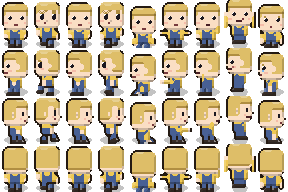
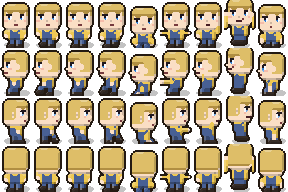
feat(art): Polish character models with Pokemon-style eyes, solid outlines, and symmetrical walk strides

diff --git a/tools/make_art.py b/tools/make_art.py
@@ -56,6 +56,9 @@ HAIR_BAND = (226, 196, 96)     # the tie on a ponytail
 LANYARD = (206, 64, 68)
 BADGE = (246, 244, 236)
 BADGE_STRIPE = (96, 150, 206)
+LASH = (32, 24, 30)
+SCLERA = (250, 250, 254)
+PUPIL = (28, 22, 32)
 
 HAIR_STYLES = ("short", "long", "curly", "spiky", "bob", "bun", "buzz",
                "ponytail")
@@ -81,6 +84,7 @@ CHARACTERS = {
         "legs": (78, 92, 130), "shoe": (74, 53, 36),
         "long_hair": False, "skirt": False,
         "hair_style": "short", "skin": "light", "pattern": "lanyard",
+        "eyes": (54, 120, 205),
     },
     # The inspector. Grey, and in a suit nobody else in the building owns,
     # because the entire job of this sprite is to be recognised across the
@@ -93,6 +97,7 @@ CHARACTERS = {
         "long_hair": False, "skirt": False,
         "hair_style": "short", "skin": "light", "pattern": "tie",
         "tie": (150, 40, 44),
+        "eyes": (80, 110, 145),
     },
     # The principal. Older (white hair, same trick as the inspector's grey)
     # and in a colour nobody else in the building wears, so a popup can
@@ -106,6 +111,7 @@ CHARACTERS = {
         "long_hair": False, "skirt": False,
         "hair_style": "short", "skin": "brown", "pattern": "tie",
         "tie": (222, 178, 70),
+        "eyes": (180, 120, 40),
     },
     # The mentor teacher, in the small room off the hallway. Another
     # colleague rather than an authority figure, so a WARM everyday palette
@@ -119,6 +125,7 @@ CHARACTERS = {
         "long_hair": True, "skirt": False,
         "hair_style": "long", "skin": "light", "pattern": "cardigan",
         "glasses": True,
+        "eyes": (130, 80, 45),
     },
     # The examiner, who invigilates the end-of-term assessment. Austere:
     # charcoal-navy suit, silver hair in a bun, glasses -- built to be told
@@ -131,17 +138,7 @@ CHARACTERS = {
         "long_hair": False, "skirt": True,
         "hair_style": "bun", "skin": "fair", "pattern": "collar",
         "glasses": True,
-    },
-    # The examiner, at the front of the room for exactly as long as the
-    # boss paper runs (scripts/world/classroom.gd refresh_examiner). A
-    # third authority figure, so a third colour nobody else wears: charcoal
-    # with silver hair, austere next to the inspector's grey suit and the
-    # principal's purple. One palette entry, same generator.
-    "examiner": {
-        "hair": (214, 214, 220), "hair_d": (168, 168, 178),
-        "shirt": (44, 48, 66), "shirt_d": (30, 32, 46),
-        "legs": (38, 40, 52), "shoe": (24, 22, 28),
-        "long_hair": True, "skirt": False,
+        "eyes": (55, 75, 115),
     },
     # Eight students. Two identical sprites across eight desks badly
     # undercuts "these are individual kids", and this is a data-table edit
@@ -156,6 +153,7 @@ CHARACTERS = {
         "long_hair": False, "skirt": False,
         "hair_style": "spiky", "skin": "tan", "pattern": "stripes",
         "sleeves": "short",
+        "eyes": (160, 95, 40),
     },
     "student_b": {
         "hair": (168, 102, 52), "hair_d": (126, 74, 36),
@@ -164,6 +162,7 @@ CHARACTERS = {
         "long_hair": True, "skirt": True,
         "hair_style": "bob", "skin": "light", "pattern": "collar",
         "sleeves": "short",
+        "eyes": (145, 80, 165),
     },
     "student_c": {
         "hair": (222, 190, 104), "hair_d": (176, 142, 66),
@@ -172,6 +171,7 @@ CHARACTERS = {
         "long_hair": False, "skirt": False,
         "hair_style": "short", "skin": "fair", "pattern": "dungarees",
         "sleeves": "short",
+        "eyes": (45, 125, 210),
     },
     "student_d": {
         "hair": (72, 52, 44), "hair_d": (48, 34, 30),
@@ -180,6 +180,7 @@ CHARACTERS = {
         "long_hair": True, "skirt": True,
         "hair_style": "long", "skin": "brown", "pattern": "plain",
         "sleeves": "long",
+        "eyes": (95, 55, 35),
     },
     "student_e": {
         "hair": (206, 108, 58), "hair_d": (158, 76, 38),
@@ -188,6 +189,7 @@ CHARACTERS = {
         "long_hair": False, "skirt": False,
         "hair_style": "curly", "skin": "light", "pattern": "stripes",
         "sleeves": "short",
+        "eyes": (45, 145, 85),
     },
     "student_f": {
         "hair": (40, 38, 48), "hair_d": (26, 24, 32),
@@ -196,6 +198,7 @@ CHARACTERS = {
         "long_hair": True, "skirt": True,
         "hair_style": "ponytail", "skin": "dark", "pattern": "plain",
         "sleeves": "short",
+        "eyes": (55, 40, 35),
     },
     "student_g": {
         "hair": (140, 104, 66), "hair_d": (100, 72, 44),
@@ -204,6 +207,7 @@ CHARACTERS = {
         "long_hair": False, "skirt": False,
         "hair_style": "buzz", "skin": "brown", "pattern": "collar",
         "sleeves": "long",
+        "eyes": (120, 80, 40),
     },
     "student_h": {
         "hair": (222, 218, 208), "hair_d": (176, 172, 166),
@@ -212,6 +216,7 @@ CHARACTERS = {
         "long_hair": True, "skirt": True,
         "hair_style": "bun", "skin": "fair", "pattern": "dungarees",
         "sleeves": "short",
+        "eyes": (45, 155, 215),
     },
 }
 
@@ -550,6 +555,8 @@ def resolve_palette(pal):
     p["legs_d"] = darker(p["legs"], 0.25)
     p["shoe_l"] = lighter(p["shoe"], 0.35)
     p["tie_l"] = lighter(p["tie"], 0.3)
+    p["eyes_l"] = lighter(p["eyes"], 0.35)
+    p["eyes_d"] = darker(p["eyes"], 0.25)
     return p
 
 
@@ -622,20 +629,34 @@ def _hair_front(im, p, dy, extras_only=False):
 
 def _face_front(im, p, dy, pose):
     eyes = p["eyes"]
-    # eyes with the highlight that makes them look alive
+    eyes_l = p.get("eyes_l", lighter(eyes, 0.35))
+    # Pokemon-style eyes: defined upper lash, white sclera, vibrant iris, specular catchlight
     for ex in (8, 20):
-        rect(im, ex, 16 + dy, ex + 3, 20 + dy, eyes)
-        rect(im, ex, 16 + dy, ex + 1, 17 + dy, (255, 255, 255))
+        # Sclera base (outer/lower white)
+        rect(im, ex, 16 + dy, ex + 3, 19 + dy, SCLERA)
+        # Upper lash line (dark, defines eye shape)
+        rect(im, ex, 15 + dy, ex + 3, 15 + dy, LASH)
+        px(im, ex - 1 if ex == 8 else ex + 4, 15 + dy, LASH)
+        # Iris & pupil: dark pupil at top, vibrant iris color below
+        rect(im, ex + 1, 16 + dy, ex + 2, 17 + dy, PUPIL)
+        rect(im, ex + 1, 18 + dy, ex + 2, 19 + dy, eyes)
+        px(im, ex + 2, 19 + dy, eyes_l)
+        # Brilliant specular catchlight (upper corner)
+        px(im, ex, 16 + dy, (255, 255, 255))
+        px(im, ex + 1, 16 + dy, (255, 255, 255))
+
     # brows
     if pose == POSE_SAD:
-        for x, y in ((8, 15), (9, 15), (10, 14), (11, 14),
-                     (20, 14), (21, 14), (22, 15), (23, 15)):
+        for x, y in ((8, 14), (9, 14), (10, 13), (11, 13),
+                     (20, 13), (21, 13), (22, 14), (23, 14)):
             px(im, x, y + dy, p["hair_d"])
     else:
-        rect(im, 8, 14 + dy, 11, 14 + dy, p["hair_d"])
-        rect(im, 20, 14 + dy, 23, 14 + dy, p["hair_d"])
+        rect(im, 8, 13 + dy, 11, 13 + dy, p["hair_d"])
+        rect(im, 20, 13 + dy, 23, 13 + dy, p["hair_d"])
+
     # nose
-    rect(im, 15, 22 + dy, 16, 22 + dy, p["skin_d"])
+    rect(im, 15, 21 + dy, 16, 21 + dy, p["skin_d"])
+
     # mouth, by mood
     if pose == POSE_SAD:
         rect(im, 15, 24 + dy, 16, 25 + dy, MOUTH)
@@ -653,17 +674,19 @@ def _face_front(im, p, dy, pose):
         px(im, 13, 24 + dy, MOUTH)
         px(im, 18, 24 + dy, MOUTH)
         rect(im, 14, 25 + dy, 17, 25 + dy, MOUTH)
+
     # cheeks
-    blend_rect(im, 5, 22 + dy, 7, 23 + dy, BLUSH)
-    blend_rect(im, 24, 22 + dy, 26, 23 + dy, BLUSH)
+    blend_rect(im, 5, 21 + dy, 7, 22 + dy, BLUSH)
+    blend_rect(im, 24, 21 + dy, 26, 22 + dy, BLUSH)
+
     if p["glasses"]:
-        blend_rect(im, 8, 16 + dy, 11, 20 + dy, LENS)
-        blend_rect(im, 20, 16 + dy, 23, 20 + dy, LENS)
-        ring(im, 7, 15 + dy, 12, 21 + dy, GLASS_FRAME, r=1)
-        ring(im, 19, 15 + dy, 24, 21 + dy, GLASS_FRAME, r=1)
-        rect(im, 13, 17 + dy, 18, 17 + dy, GLASS_FRAME)
-        rect(im, 4, 16 + dy, 6, 16 + dy, GLASS_FRAME)
-        rect(im, 25, 16 + dy, 27, 16 + dy, GLASS_FRAME)
+        blend_rect(im, 8, 15 + dy, 11, 19 + dy, LENS)
+        blend_rect(im, 20, 15 + dy, 23, 19 + dy, LENS)
+        ring(im, 7, 14 + dy, 12, 20 + dy, GLASS_FRAME, r=1)
+        ring(im, 19, 14 + dy, 24, 20 + dy, GLASS_FRAME, r=1)
+        rect(im, 13, 16 + dy, 18, 16 + dy, GLASS_FRAME)
+        rect(im, 4, 15 + dy, 6, 15 + dy, GLASS_FRAME)
+        rect(im, 25, 15 + dy, 27, 15 + dy, GLASS_FRAME)
 
 
 def _torso_pattern_front(im, p, dy, back=False):
@@ -886,14 +909,33 @@ def _profile(im, p, dy, step, seated, pose):
         rect(im, 10, 36, 19, 40, legs)
         rect(im, 8, 41, 19, 43, shoe)
     else:
-        fx = -step * 2                          # front leg strides forward
-        lift = abs(step) * 2
-        rect(im, 15 - fx, 40, 19 - fx, 45, legs)     # back leg
-        rect(im, 14 - fx, 45, 19 - fx, 47, shoe)
-        rect(im, 9 + fx, 40 - lift, 13 + fx, 45 - lift, legs)   # front leg
-        rect(im, 13 + fx, 40 - lift, 13 + fx, 45 - lift, legs_d)
-        rect(im, 7 + fx, 45 - lift, 13 + fx, 47 - lift, shoe)
-        px(im, 8 + fx, 45 - lift, shoe_l)
+        # Symmetrical stride:
+        # step == 0: neutral standing, both legs side by side
+        # step == 1: near leg strides forward (x: 7..11), far leg back (x: 16..20)
+        # step == -1: near leg strides back (x: 16..20), far leg strides forward (x: 7..11)
+        if step == 0:
+            rect(im, 14, 40, 18, 45, legs_d)
+            rect(im, 14, 45, 18, 47, shoe)
+            rect(im, 9, 40, 13, 45, legs)
+            rect(im, 13, 40, 13, 45, legs_d)
+            rect(im, 8, 45, 13, 47, shoe)
+            px(im, 9, 45, shoe_l)
+        elif step == 1:
+            # Near leg forward (lifted), Far leg back
+            rect(im, 16, 40, 20, 45, legs_d)
+            rect(im, 15, 45, 20, 47, shoe)
+            rect(im, 7, 38, 11, 43, legs)
+            rect(im, 11, 38, 11, 43, legs_d)
+            rect(im, 5, 43, 11, 45, shoe)
+            px(im, 6, 43, shoe_l)
+        else:
+            # Near leg back, Far leg forward (lifted)
+            rect(im, 7, 38, 11, 43, legs_d)
+            rect(im, 5, 43, 11, 45, shoe)
+            rect(im, 16, 40, 20, 45, legs)
+            rect(im, 20, 40, 20, 45, legs_d)
+            rect(im, 15, 45, 20, 47, shoe)
+            px(im, 16, 45, shoe_l)
 
     # hair that hangs behind the shoulder goes under the torso
     if st == "long":
@@ -994,15 +1036,21 @@ def _profile(im, p, dy, step, seated, pose):
     # ear, over the hair
     rect(im, 17, 17 + dy, 19, 21 + dy, skin)
     px(im, 18, 19 + dy, skin_d)
-    # face
-    rect(im, 7, 16 + dy, 9, 20 + dy, p["eyes"])
-    rect(im, 7, 16 + dy, 7, 17 + dy, (255, 255, 255))
+    # face / eye: looking left
+    eyes = p["eyes"]
+    eyes_l = p.get("eyes_l", lighter(eyes, 0.35))
+    rect(im, 7, 16 + dy, 10, 19 + dy, SCLERA)
+    rect(im, 6, 15 + dy, 10, 15 + dy, LASH)
+    rect(im, 7, 16 + dy, 8, 17 + dy, PUPIL)
+    rect(im, 7, 18 + dy, 8, 19 + dy, eyes)
+    px(im, 8, 19 + dy, eyes_l)
+    px(im, 7, 16 + dy, (255, 255, 255))
     if pose == POSE_SAD:
-        px(im, 7, 15 + dy, hair_d)
-        px(im, 8, 14 + dy, hair_d)
-        px(im, 9, 14 + dy, hair_d)
+        px(im, 7, 14 + dy, hair_d)
+        px(im, 8, 13 + dy, hair_d)
+        px(im, 9, 13 + dy, hair_d)
     else:
-        rect(im, 7, 14 + dy, 9, 14 + dy, hair_d)
+        rect(im, 7, 13 + dy, 9, 13 + dy, hair_d)
     px(im, 3, 21 + dy, skin)                   # the nose, proud of the face
     px(im, 3, 22 + dy, skin_d)
     if pose == POSE_SAD:
@@ -1019,11 +1067,11 @@ def _profile(im, p, dy, step, seated, pose):
     else:
         rect(im, 5, 25 + dy, 7, 25 + dy, MOUTH)
         px(im, 8, 24 + dy, MOUTH)
-    blend_rect(im, 9, 22 + dy, 11, 23 + dy, BLUSH)
+    blend_rect(im, 9, 21 + dy, 11, 22 + dy, BLUSH)
     if p["glasses"]:
-        blend_rect(im, 7, 16 + dy, 9, 20 + dy, LENS)
-        ring(im, 5, 15 + dy, 10, 21 + dy, GLASS_FRAME, r=1)
-        rect(im, 11, 16 + dy, 17, 16 + dy, GLASS_FRAME)
+        blend_rect(im, 6, 15 + dy, 9, 19 + dy, LENS)
+        ring(im, 5, 14 + dy, 10, 20 + dy, GLASS_FRAME, r=1)
+        rect(im, 10, 15 + dy, 17, 15 + dy, GLASS_FRAME)
     if pose == POSE_CHAT:
         rect(im, 10, 26 + dy, 12, 33 + dy, shirt)
         rect(im, 9, 23 + dy, 12, 25 + dy, skin)
@@ -1070,7 +1118,7 @@ def draw_char(direction, frame, pal):
     elif pose == POSE_SAD:
         dy = 2
     else:
-        dy = -1 if step else 0           # a 1px head bob on the step frames
+        dy = 0                           # head stays steady during walk cycle to avoid parity distortion
     if direction == 0:
         _front(im, p, dy, step, seated, pose)
     elif direction == 3:
@@ -1080,16 +1128,14 @@ def draw_char(direction, frame, pal):
         if direction == 2:
             im = ImageOps.mirror(im)
     rim_light(im)
-    outline(im)
-    # contact shadow LAST, so the outline pass does not trace it. A
-    # jumper's shadow stays on the floor while the figure rises above it,
-    # which is most of what sells "in the air" at this scale.
-    shadow(im, CW // 2, CH - 4, 12 if pose != POSE_JUMP else 8, 4)
-    # Quantise onto the room's 16-px-per-tile grid: resize to half and
-    # Scale2x back, exactly the pipeline every tile and every item uses.
-    # Frame stays 32x48, so the sheet, the scene and the on-screen size
-    # are all unchanged -- only the pixels get bigger, to match the set.
-    return scale2x(im.resize((CW // 2, CH // 2), Image.NEAREST))
+    # Quantise onto the room's 16-px-per-tile grid FIRST, then outline
+    # and shadow directly at lowres before Scale2x. This guarantees a
+    # 100% uniform, solid 2px outline (1 texel) with zero dropped border
+    # pixels on walking frames or pose bobs.
+    lowres = im.resize((CW // 2, CH // 2), Image.NEAREST)
+    outline(lowres, LINE)
+    shadow(lowres, (CW // 2) // 2, (CH // 2) - 2, 6 if pose != POSE_JUMP else 4, 2)
+    return scale2x(lowres)
 
 
 def make_character(name, pal):
@@ -1215,14 +1261,35 @@ def draw_portrait(pal):
                     rect(im, cx - half, 6 - hgt, cx + half, 6 - hgt, hair)
     rect(im, 28, 10, 48, 13, hair_l)
 
-    # brows, eyes, nose, mouth, cheeks
+    # Expressive Pokemon style portrait eyes:
     eyes = p["eyes"]
-    rect(im, 30, 31, 39, 32, hair_d)
-    rect(im, 56, 31, 65, 32, hair_d)
-    for ex in (30, 56):
-        rrect(im, ex, 35, ex + 9, 46, eyes, r=2)
-        rect(im, ex + 1, 36, ex + 3, 39, (255, 255, 255))
-        rect(im, ex + 6, 43, ex + 7, 44, (255, 255, 255))
+    eyes_l = p.get("eyes_l", lighter(eyes, 0.35))
+    eyes_d = p.get("eyes_d", darker(eyes, 0.25))
+
+    # brows
+    rect(im, 29, 30, 40, 31, hair_d)
+    rect(im, 55, 30, 66, 31, hair_d)
+
+    for ex in (29, 56):
+        # White sclera
+        rrect(im, ex, 34, ex + 10, 46, SCLERA, r=3)
+        # Upper lash line (bold anime curve, 2px thick at top)
+        rect(im, ex - 1, 33, ex + 11, 34, LASH)
+        px(im, ex - 2 if ex == 29 else ex + 12, 34, LASH)
+        # Lower subtle lash rim
+        rect(im, ex + 1, 46, ex + 9, 46, (200, 175, 170))
+        # Iris (oval)
+        rrect(im, ex + 2, 35, ex + 8, 45, eyes_d, r=2)
+        # Iris gradient: vibrant lower crescent
+        rect(im, ex + 2, 41, ex + 8, 44, eyes)
+        rect(im, ex + 3, 43, ex + 7, 44, eyes_l)
+        # Pupil (deep black center)
+        rect(im, ex + 4, 37, ex + 6, 41, PUPIL)
+        # Specular catchlight: 2x2 brilliant white gleam
+        rect(im, ex + 2, 36, ex + 3, 37, (255, 255, 255))
+        # Micro secondary gleam
+        px(im, ex + 7, 43, (255, 255, 255))
+
     rect(im, 46, 47, 47, 52, skin_d)
     px(im, 48, 52, skin_d)
     for x, y in ((38, 57), (39, 58), (56, 58), (57, 57)):
@@ -1232,13 +1299,13 @@ def draw_portrait(pal):
     blend_rect(im, 23, 50, 30, 53, BLUSH)
     blend_rect(im, 65, 50, 72, 53, BLUSH)
     if p["glasses"]:
-        blend_rect(im, 28, 33, 41, 48, LENS)
-        blend_rect(im, 54, 33, 67, 48, LENS)
-        ring(im, 27, 32, 42, 49, GLASS_FRAME, r=3, thickness=2)
-        ring(im, 53, 32, 68, 49, GLASS_FRAME, r=3, thickness=2)
-        rect(im, 43, 39, 52, 40, GLASS_FRAME)
-        rect(im, 18, 38, 26, 39, GLASS_FRAME)
-        rect(im, 69, 38, 77, 39, GLASS_FRAME)
+        blend_rect(im, 27, 32, 42, 48, LENS)
+        blend_rect(im, 53, 32, 68, 48, LENS)
+        ring(im, 26, 31, 43, 49, GLASS_FRAME, r=3, thickness=2)
+        ring(im, 52, 31, 69, 49, GLASS_FRAME, r=3, thickness=2)
+        rect(im, 44, 38, 51, 39, GLASS_FRAME)
+        rect(im, 17, 37, 25, 38, GLASS_FRAME)
+        rect(im, 70, 37, 78, 38, GLASS_FRAME)
 
     rim_light(im, 0.14)
     outline(im)
